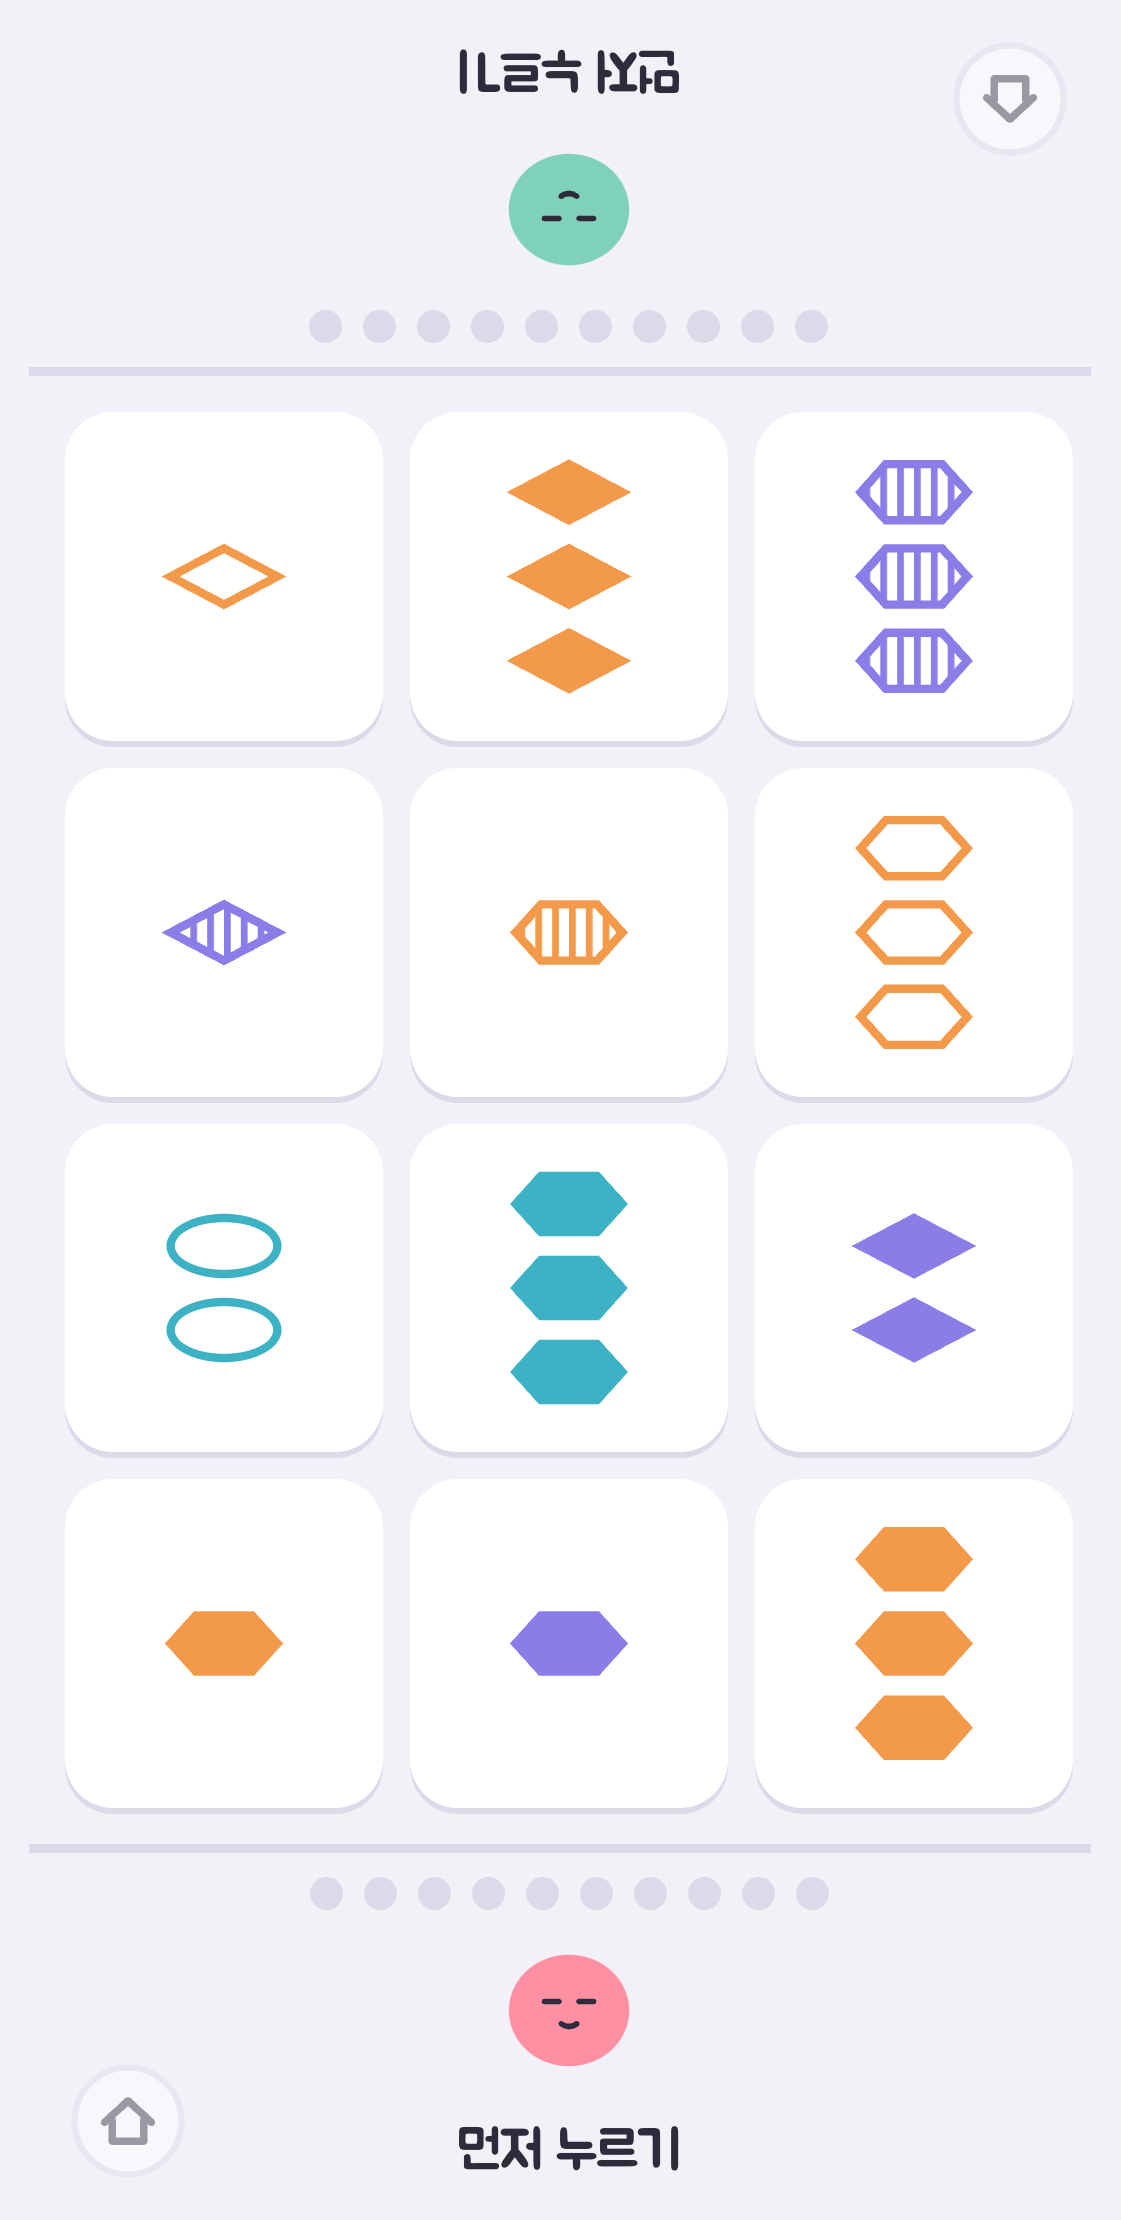
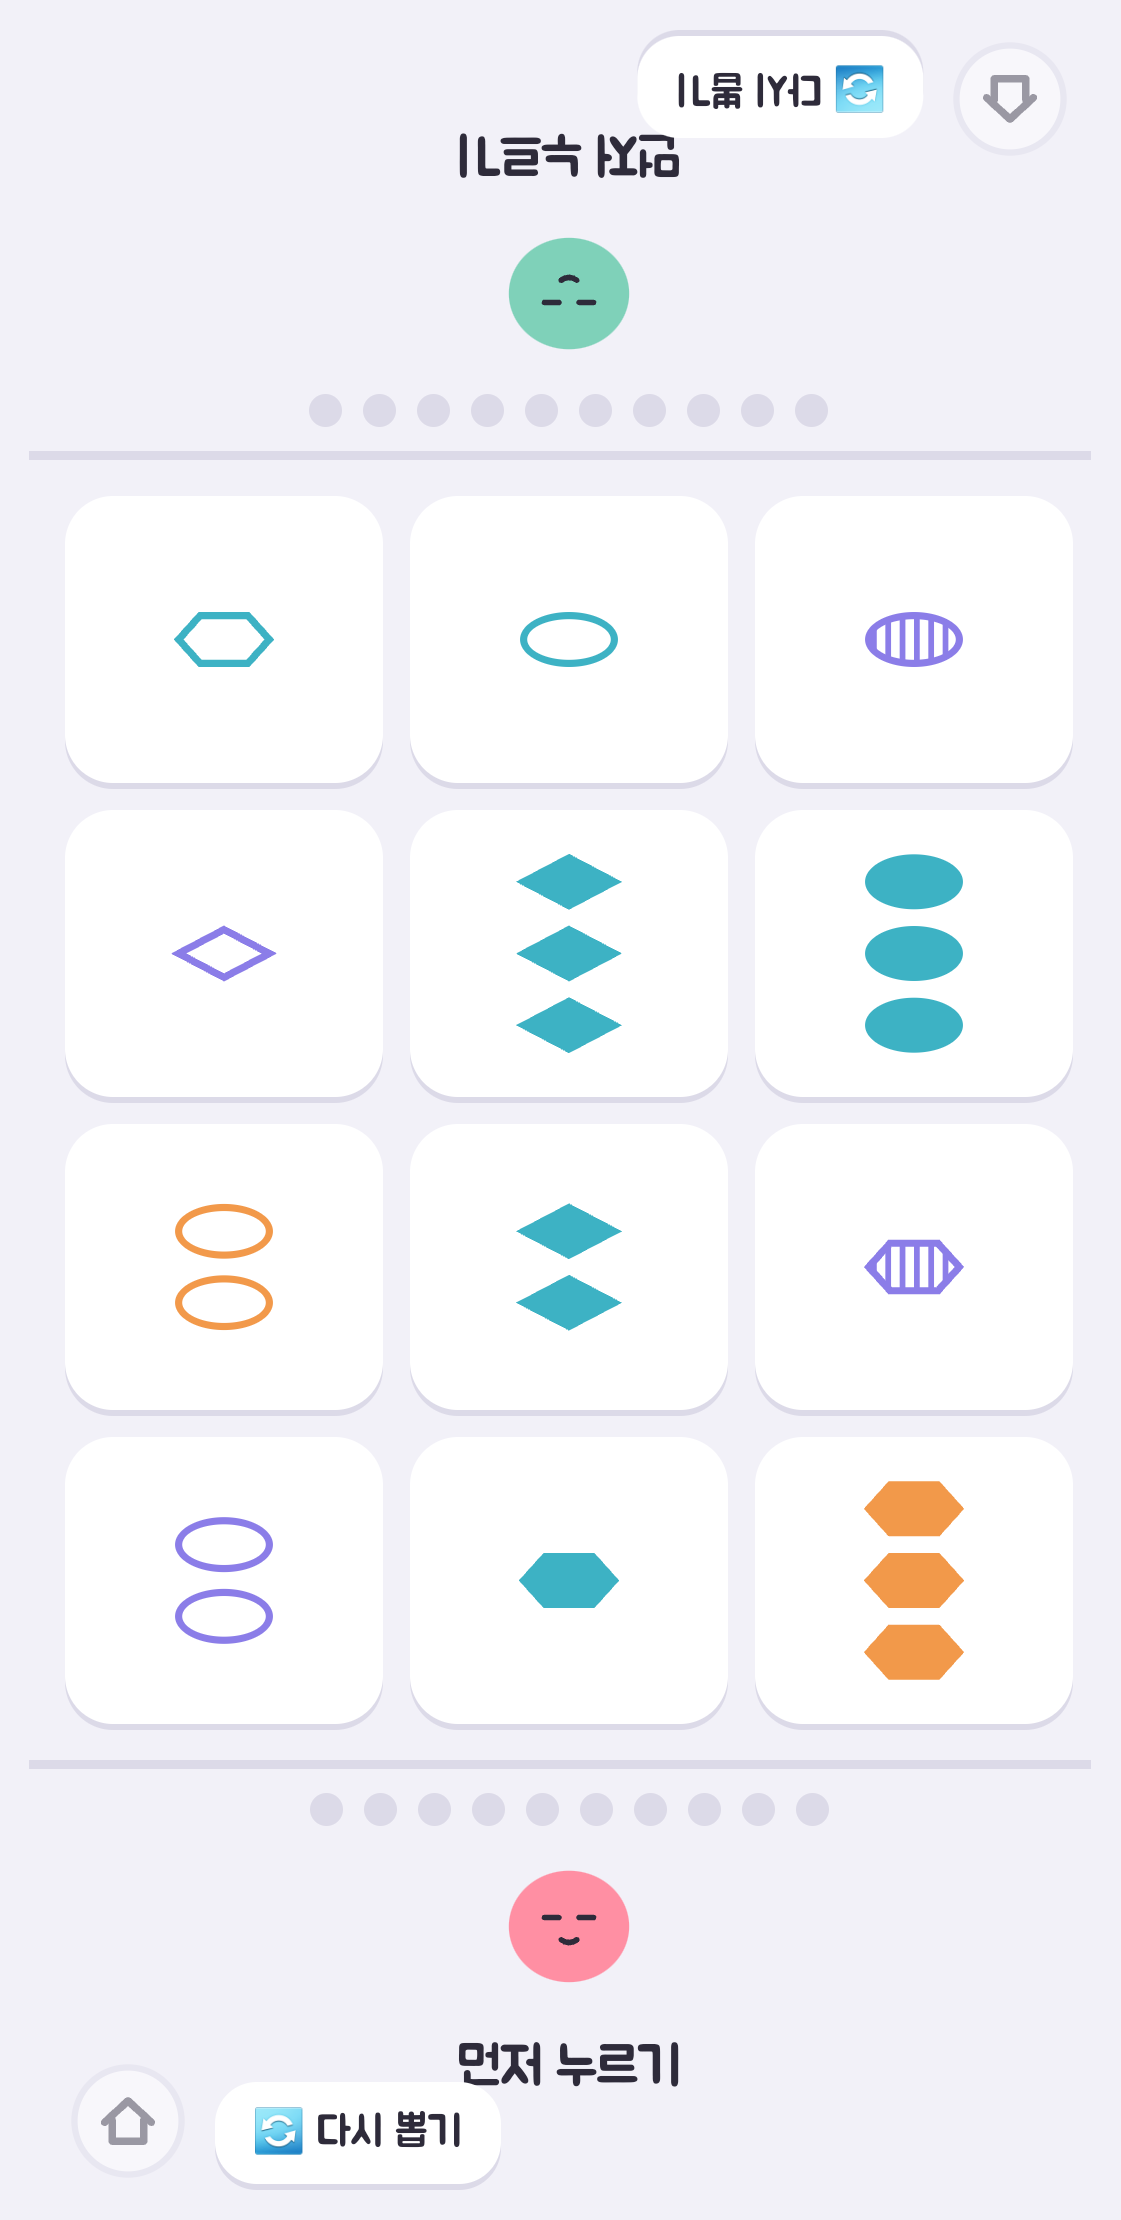
스토어 스크린샷을 새로 찍고 출시 노트를 적었다 — 업로드 준비 끝
조직 계정과 콘솔 앱이 생긴 날(9/15) S8 설치 앱에서 8장을 다시 찍었다.
번쩍은 노란 신호 순간, 땅따먹기는 칸 하나를 먹은 판, 폭탄 돌리기는
아래쪽이 폭탄을 든 판(뒤집힌 위쪽이면 스토어에서 읽기 어렵다)으로.
prep_screenshots.py 로 1121×2220 을 맞췄다.

출시 노트(첫 버전)를 스토어-등록정보에 코드 블록으로 넣었다.
사용자 지시로 콘솔 입력·AAB 업로드는 ADMIN 이 차례로 한다 — 할 일 표에 적었다.

Claude-Session: https://claude.ai/code/session_01TQyajyxsPabSNMTcZmg8SU

diff --git a/CLAUDE.md b/CLAUDE.md
@@ -267,8 +267,8 @@ S8 은 무선 adb(`192.168.219.116:5555`)로도 붙어 있다 — 폰을 껐다 
 | 1 | **릴리스 서명 키 만들기** (`flutter/README.md` 7번) | ✅ **2026-09-11** — 백업 두 곳 · AAB·APK 서명 확인 |
 | 2 | 스토어 자산 | ✅ 아이콘·피처그래픽(2배본 포함) 완료 |
 | 3 | 콘솔 설문 답안 | ✅ `docs/콘솔-설문-답안.md` 에 근거까지 |
-| 4 | 스크린샷 | ⏸ **맨 마지막에 다시 찍는다** — 게임을 계속 고치는 중 |
-| 5 | 개발자 계정 · 콘솔 등록 | ⏳ D-U-N-S 대기 |
+| 4 | 스크린샷 | ✅ **2026-09-15** — S8 설치 앱에서 8장 새로 찍음 |
+| 5 | 개발자 계정 · 콘솔 등록 | ✅ 조직 계정 `Sodam Apps` · 앱 생성(2026-09-15, ADMIN). 🔁 **콘솔 입력·AAB 업로드는 ADMIN 이 한다**(사용자 지시) — 이 세션은 콘솔을 열지 않고 준비물만 `_ADMIN-보고.md` 에 넘긴다 |
 | 6 | 사람이 폰을 쥐고 하는 확인 | ✅ **2026-09-15 끝** — 기계로 잰 것(9/13 S8 · 9/15 앱으로 게임 10개) + 사용자 확인(소리 들림 · 제한 시간·다른 색 하나·딱 다섯 1.7초는 **지금 값 그대로**) |
 
 🔑 **서명 키는 `C:/SYA/keys/kungjjak-upload.jks` 에 있다**(2026-09-11 생성).

diff --git a/docs/출시체크리스트.md b/docs/출시체크리스트.md
@@ -189,7 +189,9 @@ python tools/embed_fonts.py
       플레이가 1024×500 을 «너무 작다» 며 반려하는 일이 있어서다(사랑나라 전례).
       그때 다시 만드느라 헤매지 말고 **바로 갈아 끼우면 된다.** 안 쓰면 그만이다.
       ✅ 게임 이름이 안 들어가 있어 **1번·6번 이름을 바꿔도 다시 만들 필요가 없다.**
-- [ ] 🚨 **스크린샷은 «진짜 올리기 직전» 에 다시 찍는다** (2026-09-03 사용자 결정)
+- [x] 🚨 **스크린샷은 «진짜 올리기 직전» 에 다시 찍는다** (2026-09-03 사용자 결정)
+      ✅ **2026-09-15 찍었다** — 조직 계정·앱이 생긴 날, S8 설치 앱에서 8장. 번쩍은 노란 신호 순간,
+      땅따먹기는 칸 하나를 먹은 판, 폭탄은 아래쪽이 들고 있는 판으로. `store-assets/screenshots/`
       게임을 계속 고치는 중이라 지금 찍어 두면 **화면과 다른 그림을 올리게 된다.**
       아래 8장은 **규격을 확인해 둔 견본**이지 제출본이 아니다. 절차와 도구는 그대로 쓴다.
 - [x] **규격 확인용 견본 8장 (2026-09-02)** → `store-assets/screenshots/` (갤럭시 S8 에서 촬영)
